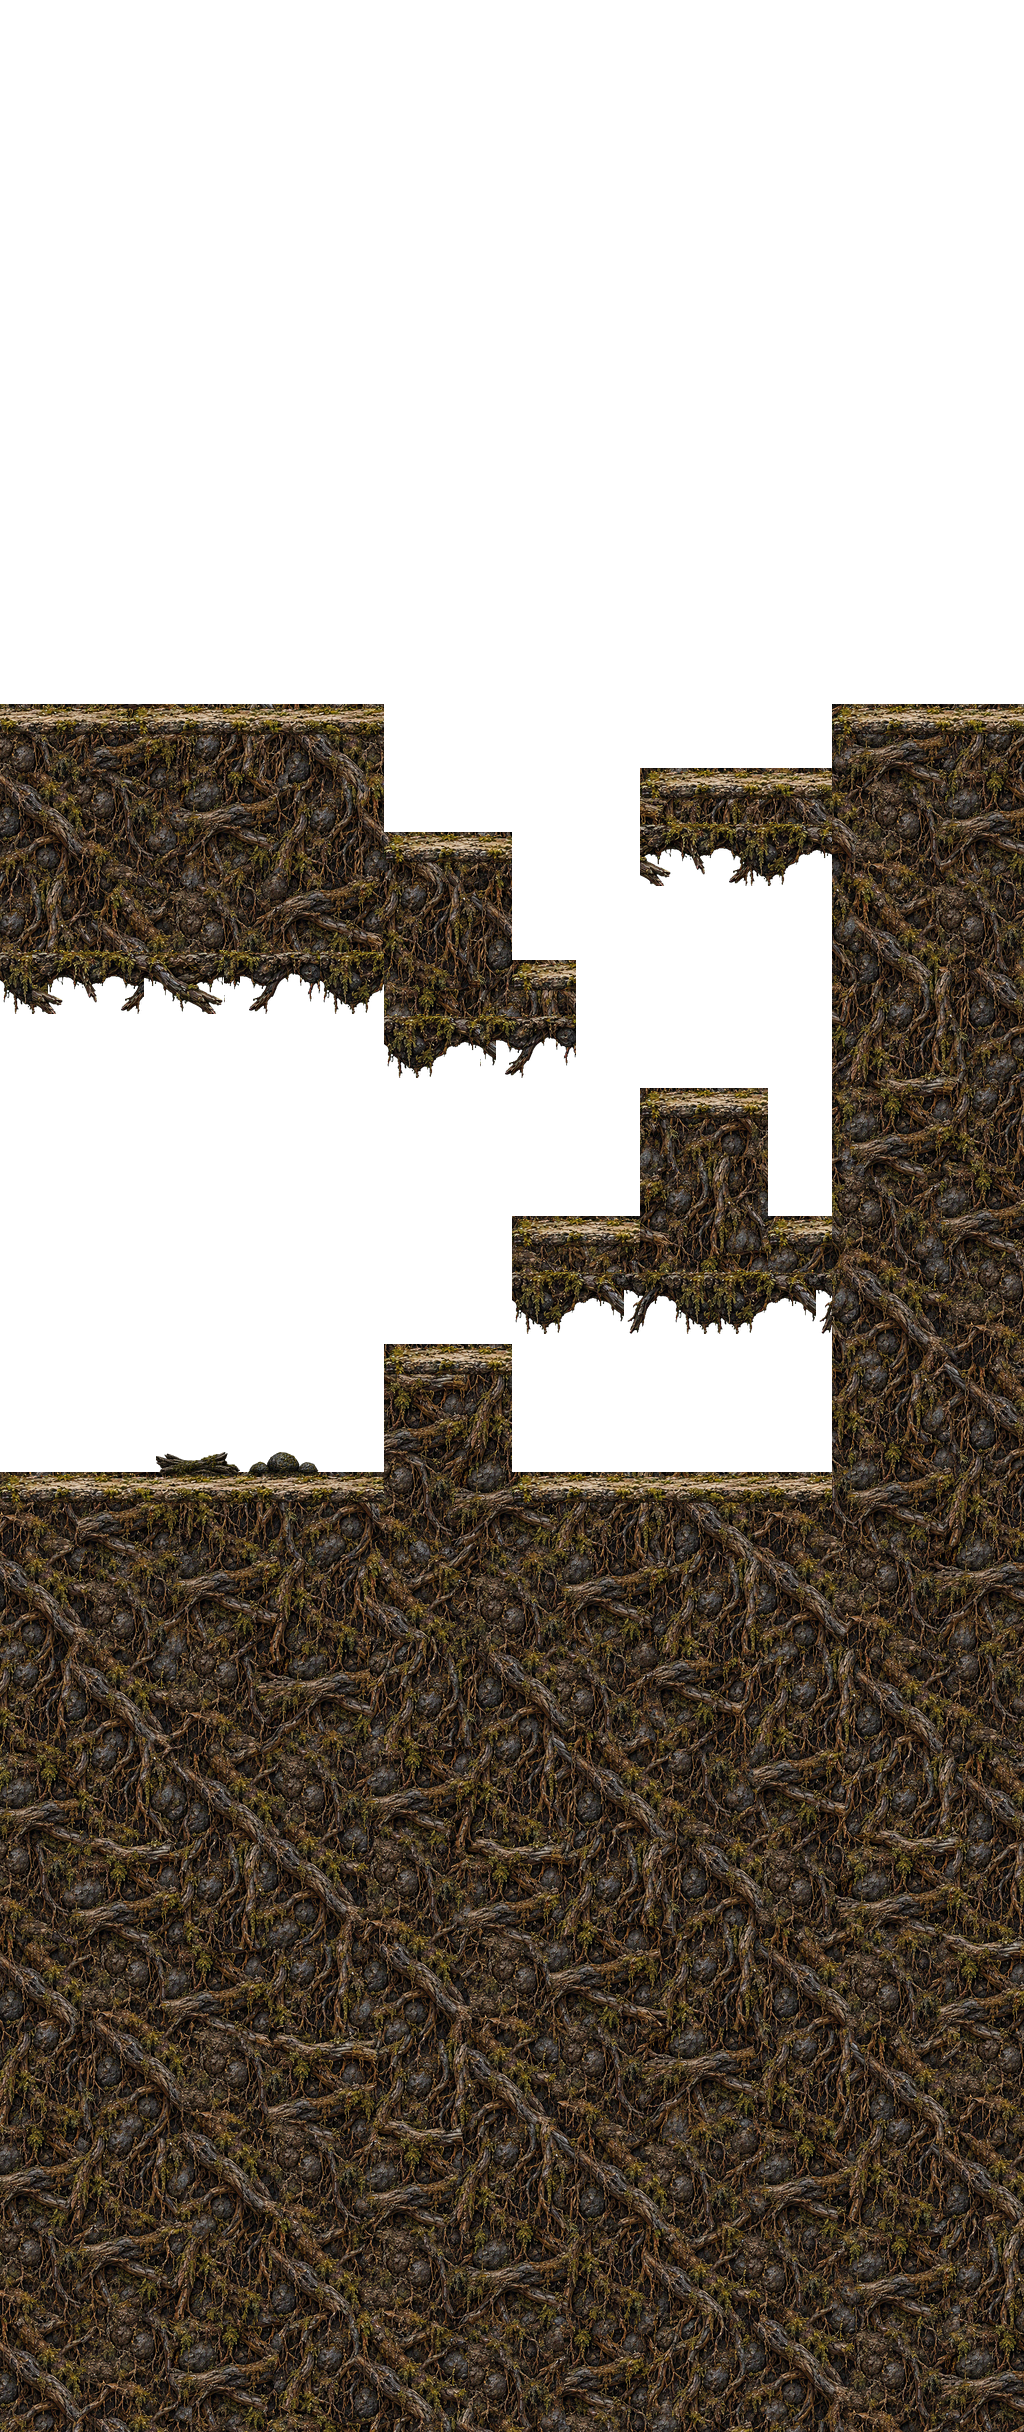
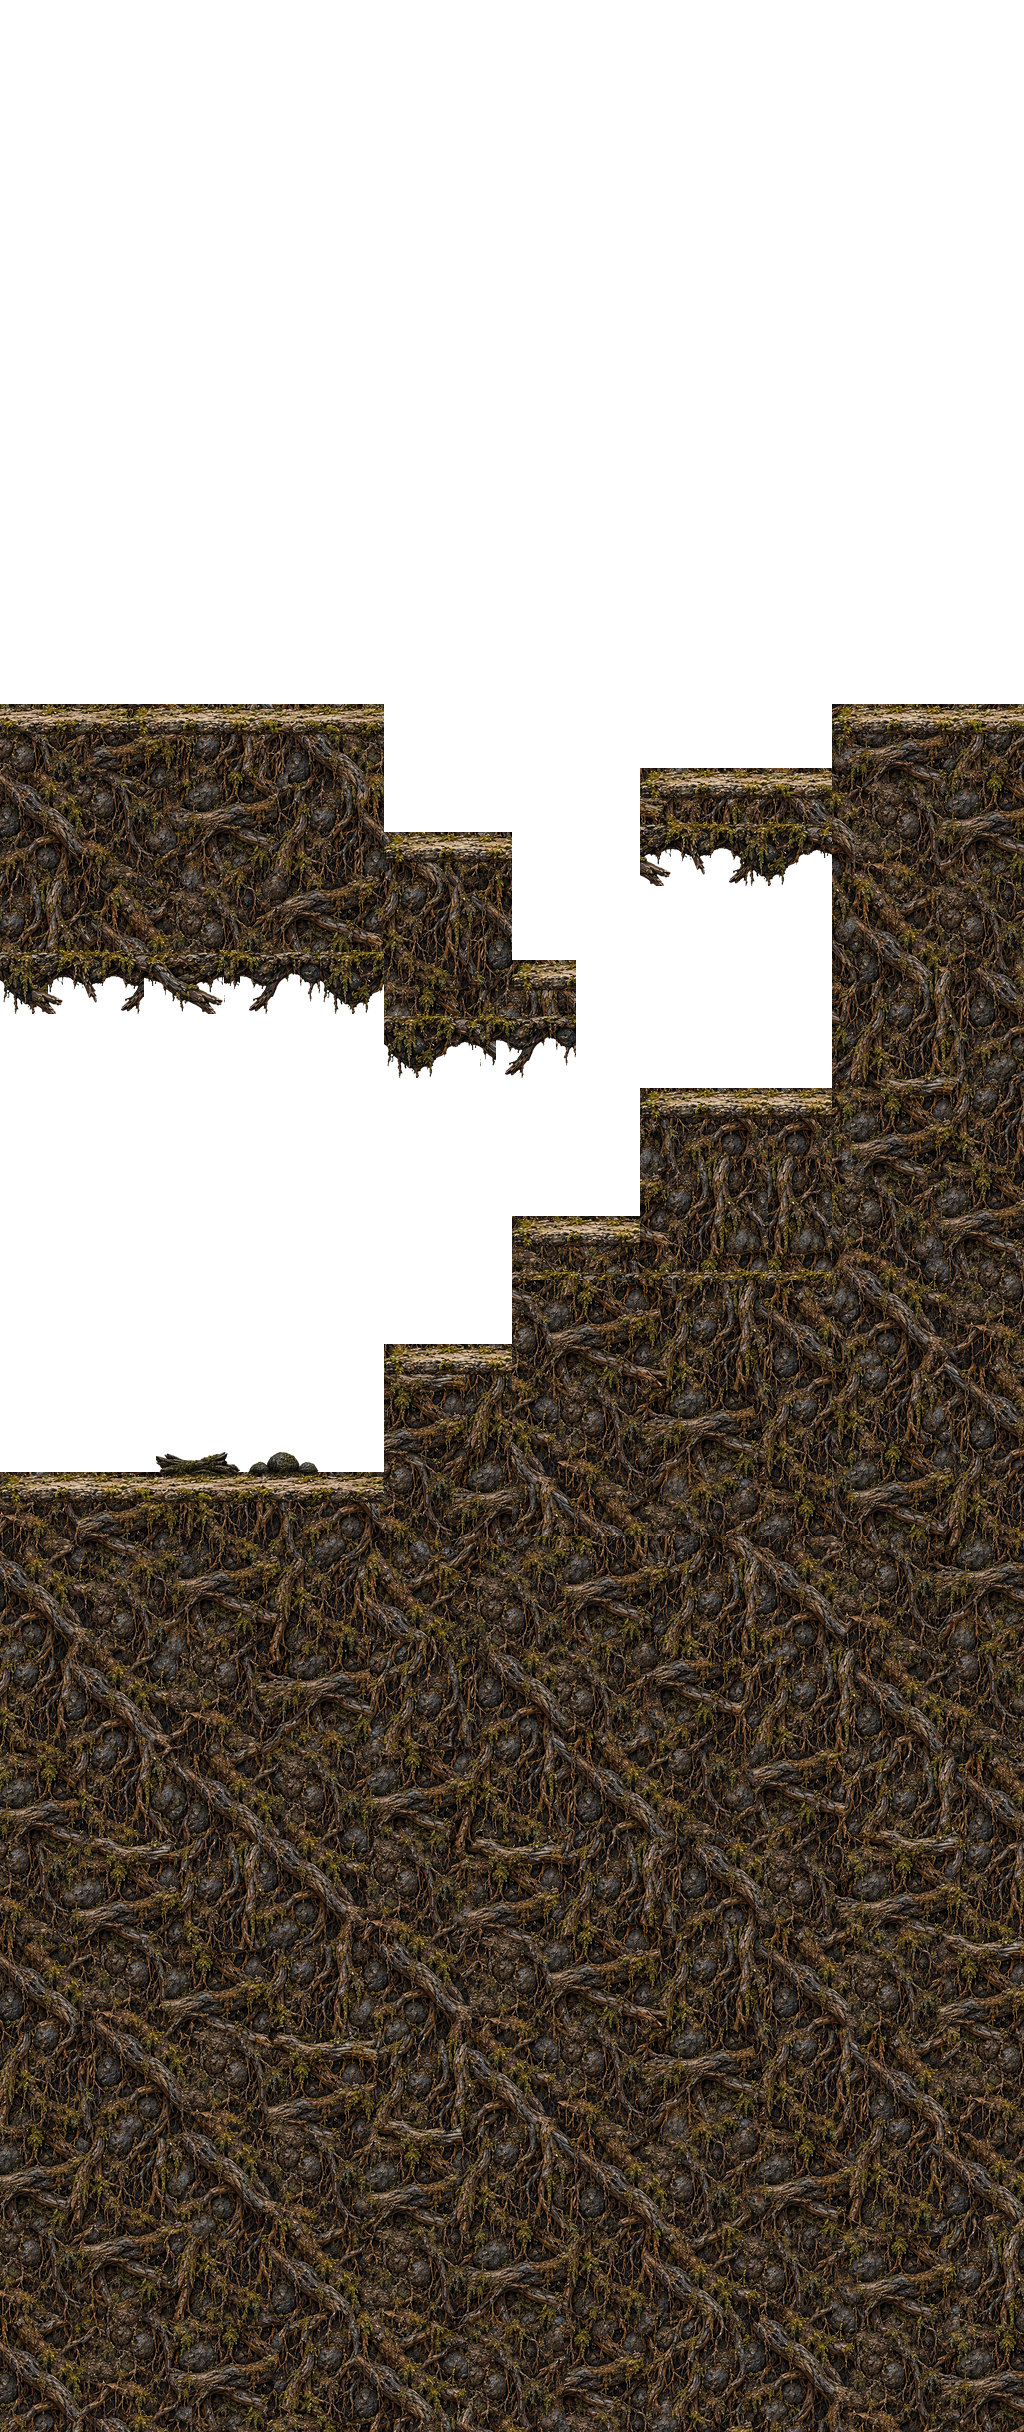
Болото: заделаны бесполезные дырки, сундуки перенесены

Changed region(s): [[0.5, 0.4375, 0.8125, 0.6562]]

diff --git a/src/explore/mapArtManifest.ts b/src/explore/mapArtManifest.ts
@@ -15,6 +15,6 @@ export type MapArtBackdrop = { worldHeight: number; dimColor: number; dimAlpha: 
 export type MapArtEntry = { file: string; width: number; height: number; gridChecksum: number; slices?: MapArtSlice[]; sway?: MapArtSway[]; backdrop?: MapArtBackdrop }
 
 export const MAP_ART: Record<string, MapArtEntry> = {
-  'map_B2_swamp.txt': { file: 'map_B2_swamp_1.webp', width: 2816, height: 2944, gridChecksum: 0xa37ab4b2, slices: [{ file: 'map_B2_swamp_1.webp', x: 0, width: 960 }, { file: 'map_B2_swamp_2.webp', x: 960, width: 960 }, { file: 'map_B2_swamp_3.webp', x: 1920, width: 896 }], sway: [{ sprite: 'sedge', x: 1547, y: 517, w: 84, h: 63, phase: 4.992 }, { sprite: 'reeds', x: 1828, y: 645, w: 84, h: 63, phase: 5.3628 }, { sprite: 'sedge', x: 2626, y: 1093, w: 84, h: 63, phase: 5.1336 }, { sprite: 'sedge', x: 1676, y: 1157, w: 84, h: 63, phase: 5.5045 }] },
-  'map_C2_swamp_boss.txt': { file: 'map_C2_swamp_boss_1.webp', width: 6144, height: 2432, gridChecksum: 0x403da22e, slices: [{ file: 'map_C2_swamp_boss_1.webp', x: 0, width: 1280 }, { file: 'map_C2_swamp_boss_2.webp', x: 1280, width: 1280 }, { file: 'map_C2_swamp_boss_3.webp', x: 2560, width: 1280 }, { file: 'map_C2_swamp_boss_4.webp', x: 3840, width: 1280 }, { file: 'map_C2_swamp_boss_5.webp', x: 5120, width: 1024 }], sway: [{ sprite: 'reeds', x: 420, y: 648, w: 84, h: 63, phase: 4.992 }, { sprite: 'sedge', x: 1288, y: 645, w: 84, h: 63, phase: 5.3628 }, { sprite: 'reeds', x: 1621, y: 645, w: 84, h: 63, phase: 5.1336 }, { sprite: 'sedge', x: 2520, y: 645, w: 84, h: 63, phase: 5.5045 }, { sprite: 'reeds', x: 3030, y: 645, w: 84, h: 63, phase: 5.2753 }, { sprite: 'sedge', x: 3949, y: 645, w: 84, h: 63, phase: 5.0461 }, { sprite: 'sedge', x: 4900, y: 645, w: 84, h: 63, phase: 5.4169 }, { sprite: 'sedge', x: 885, y: 1413, w: 84, h: 63, phase: 5.1877 }, { sprite: 'sedge', x: 2254, y: 1413, w: 84, h: 63, phase: 5.5586 }, { sprite: 'sedge', x: 4546, y: 1413, w: 84, h: 63, phase: 5.3294 }, { sprite: 'sedge', x: 5434, y: 1413, w: 84, h: 63, phase: 5.1002 }] },
+  'map_B2_swamp.txt': { file: 'map_B2_swamp_1.webp', width: 2816, height: 2944, gridChecksum: 0xc1334e86, slices: [{ file: 'map_B2_swamp_1.webp', x: 0, width: 960 }, { file: 'map_B2_swamp_2.webp', x: 960, width: 960 }, { file: 'map_B2_swamp_3.webp', x: 1920, width: 896 }], sway: [{ sprite: 'sedge', x: 1547, y: 517, w: 84, h: 63, phase: 4.992 }, { sprite: 'reeds', x: 1828, y: 645, w: 84, h: 63, phase: 5.3628 }, { sprite: 'sedge', x: 1676, y: 1157, w: 84, h: 63, phase: 5.5045 }] },
+  'map_C2_swamp_boss.txt': { file: 'map_C2_swamp_boss_1.webp', width: 6144, height: 2432, gridChecksum: 0x2197a2b1, slices: [{ file: 'map_C2_swamp_boss_1.webp', x: 0, width: 1280 }, { file: 'map_C2_swamp_boss_2.webp', x: 1280, width: 1280 }, { file: 'map_C2_swamp_boss_3.webp', x: 2560, width: 1280 }, { file: 'map_C2_swamp_boss_4.webp', x: 3840, width: 1280 }, { file: 'map_C2_swamp_boss_5.webp', x: 5120, width: 1024 }], sway: [{ sprite: 'reeds', x: 420, y: 648, w: 84, h: 63, phase: 4.992 }, { sprite: 'sedge', x: 1288, y: 645, w: 84, h: 63, phase: 5.3628 }, { sprite: 'reeds', x: 1621, y: 645, w: 84, h: 63, phase: 5.1336 }, { sprite: 'sedge', x: 2520, y: 645, w: 84, h: 63, phase: 5.5045 }, { sprite: 'reeds', x: 3030, y: 645, w: 84, h: 63, phase: 5.2753 }, { sprite: 'sedge', x: 3949, y: 645, w: 84, h: 63, phase: 5.0461 }, { sprite: 'sedge', x: 4900, y: 645, w: 84, h: 63, phase: 5.4169 }, { sprite: 'sedge', x: 885, y: 1413, w: 84, h: 63, phase: 5.1877 }, { sprite: 'sedge', x: 2254, y: 1413, w: 84, h: 63, phase: 5.5586 }, { sprite: 'sedge', x: 4546, y: 1413, w: 84, h: 63, phase: 5.3294 }, { sprite: 'sedge', x: 5434, y: 1413, w: 84, h: 63, phase: 5.1002 }] },
 }
